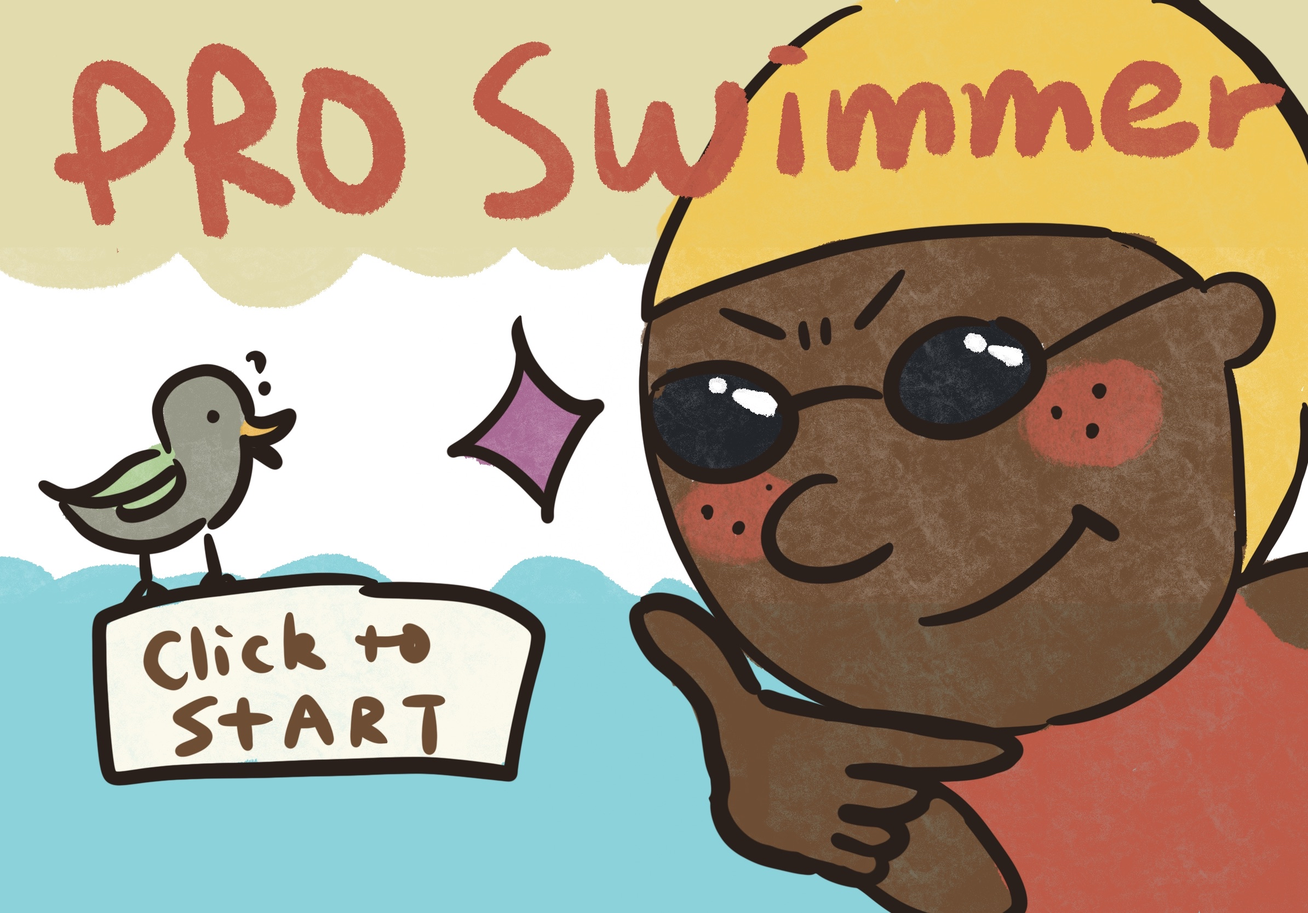
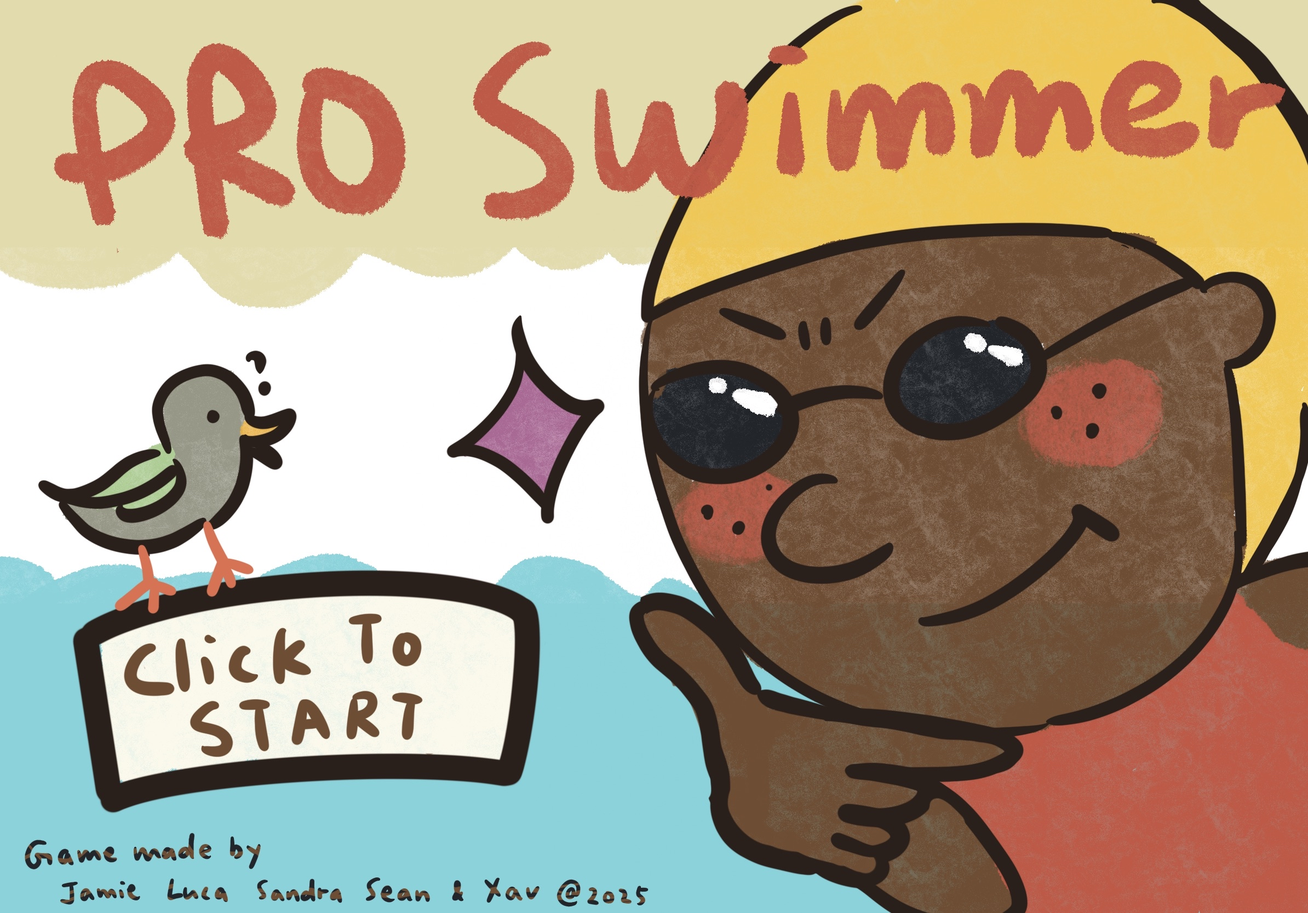
Updated Title Image with credits

Changed region(s): [[0.0, 0.5612, 0.4958, 0.9976], [0.4958, 0.2182, 0.5268, 0.2494]]

diff --git a/Assets/Scripts/MainMenu.cs b/Assets/Scripts/MainMenu.cs
@@ -26,6 +26,7 @@ public class MainMenu : MonoBehaviour {
 
         Debug.Log("Sound and Music tests");
         AudioAssets.PlaySound("switch-1", 0.5f, 1f, 0.1f, true);
+        Player.GameStarted = false;
         MusicAssets.PlayTitle();
 
     }

diff --git a/Assets/Scripts/GameManager.cs b/Assets/Scripts/GameManager.cs
@@ -43,7 +43,7 @@ public class GameManager : MonoBehaviour
 
     private void Start()
     {
-        
+        Player.GameStarted = true;
     }
 
     private void Update()
